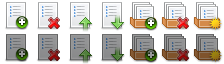
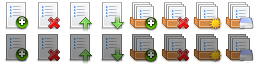
- managesieve: import/export
git-svn-id: https://svn.roundcube.net/trunk@3460 208e9e7b-5314-0410-a742-e7e81cd9613c

diff --git a/plugins/managesieve/managesieve.js b/plugins/managesieve/managesieve.js
@@ -23,6 +23,7 @@ if (window.rcmail) {
     rcmail.register_command('plugin.managesieve-setadd', function() { rcmail.managesieve_setadd() }, true);
     rcmail.register_command('plugin.managesieve-setdel', function() { rcmail.managesieve_setdel() }, true);
     rcmail.register_command('plugin.managesieve-setact', function() { rcmail.managesieve_setact() }, true);
+    rcmail.register_command('plugin.managesieve-setget', function() { rcmail.managesieve_setget() }, true);
 
     if (rcmail.env.action == 'plugin.managesieve')
       {
@@ -33,7 +34,8 @@ if (window.rcmail) {
 	  rcmail.enable_command('plugin.managesieve-del', 'plugin.managesieve-up',
 	    'plugin.managesieve-down', false);
           rcmail.enable_command('plugin.managesieve-add', 'plugin.managesieve-setadd', !rcmail.env.sieveconnerror);
-	  rcmail.enable_command('plugin.managesieve-set', rcmail.gui_objects.filtersetslist != null);
+	  rcmail.enable_command('plugin.managesieve-set', 'plugin.managesieve-setget',
+            rcmail.gui_objects.filtersetslist != null);
 	  rcmail.enable_command('plugin.managesieve-setact',
 	    (rcmail.gui_objects.filtersetslist && rcmail.gui_objects.filtersetslist.length > 1
 		&& rcmail.gui_objects.filtersetslist.value != rcmail.env.active_set));
@@ -410,7 +412,14 @@ if (window.rcmail) {
   rcube_webmail.prototype.managesieve_set = function()
     {
     var script = $(this.gui_objects.filtersetslist).val();
-    location.href = this.env.comm_path+'&_action=plugin.managesieve&_sid='+script;
+    location.href = this.env.comm_path+'&_action=plugin.managesieve&_set='+script;
+    };
+
+  // Script download
+  rcube_webmail.prototype.managesieve_setget = function()
+    {
+    var script = $(this.gui_objects.filtersetslist).val();
+    location.href = this.env.comm_path+'&_action=plugin.managesieve&_act=setget&_set='+script;
     };
 
   // Set activate
@@ -466,13 +475,12 @@ if (window.rcmail) {
         }
     };
 
-
   rcube_webmail.prototype.managesieve_reload = function(set)
     {
       this.env.reload_set = set;
       window.setTimeout(function() {
         location.href = rcmail.env.comm_path + '&_action=plugin.managesieve'
-	  + (rcmail.env.reload_set ? '&_sid=' + rcmail.env.reload_set : '')
+	  + (rcmail.env.reload_set ? '&_set=' + rcmail.env.reload_set : '')
 	}, 500);
     };
 

diff --git a/plugins/managesieve/skins/default/templates/managesieve.html b/plugins/managesieve/skins/default/templates/managesieve.html
@@ -32,6 +32,7 @@
 <roundcube:button command="plugin.managesieve-setadd" type="link" class="buttonPas setadd" classSel="button setaddsel" classAct="button setadd" title="managesieve.filtersetadd" content=" " />
 <roundcube:button command="plugin.managesieve-setdel" type="link" class="buttonPas setdel" classSel="button setdelsel" classAct="button setdel" title="managesieve.filtersetdel" content=" " />
 <roundcube:button command="plugin.managesieve-setact" type="link" class="buttonPas setset" classSel="button setsetsel" classAct="button setset" title="managesieve.filtersetact" content=" " />
+<roundcube:button command="plugin.managesieve-setget" type="link" class="buttonPas setget" classSel="button setgetsel" classAct="button setget" title="managesieve.filtersetget" content=" " />
 </div>
 <div id="filtersetselect">
 <roundcube:label name="managesieve.filterset" />:

diff --git a/plugins/managesieve/skins/default/managesieve.css b/plugins/managesieve/skins/default/managesieve.css
@@ -131,10 +131,18 @@
   background-position: -192px -32px;
 }
 
+#filtersetsbuttons a.setget {
+  background-position: -224px 0px;
+}
+
+#filtersetsbuttons a.setgetsel {
+  background-position: -224px -32px;
+}
+
 #filtersetselect
 {
   position: absolute;
-  left: 360px;
+  left: 375px;
   top: 90px;
 }
 
@@ -270,4 +278,14 @@ span.label
   white-space: nowrap;
   text-align: right;
   float: right;
+}
+
+div .itemlist
+{
+  line-height: 25px;
+}
+
+div .itemlist input
+{
+  vertical-align: middle;
 }

diff --git a/plugins/managesieve/managesieve.php b/plugins/managesieve/managesieve.php
@@ -7,7 +7,7 @@
  * It's clickable interface which operates on text scripts and communicates
  * with server using managesieve protocol. Adds Filters tab in Settings.
  *
- * @version 2.3
+ * @version 2.4
  * @author Aleksander 'A.L.E.C' Machniak <alec@alec.pl>
  *
  * Configuration (see config.inc.php.dist)
@@ -79,8 +79,8 @@ class managesieve extends rcube_plugin
       $active = $this->sieve->get_active();
       $_SESSION['managesieve_active'] = $active;
       
-      if (!empty($_GET['_sid'])) {
-        $script_name = get_input_value('_sid', RCUBE_INPUT_GET);
+      if (!empty($_GET['_set'])) {
+        $script_name = get_input_value('_set', RCUBE_INPUT_GET);
       } else if (!empty($_SESSION['managesieve_current'])) {
         $script_name = $_SESSION['managesieve_current'];
       } else {
@@ -224,6 +224,33 @@ class managesieve extends rcube_plugin
           $this->rc->output->show_message('managesieve.setdeleteerror', 'error');
 	}
       }
+      else if ($action=='setget')
+      {
+        $script_name = get_input_value('_set', RCUBE_INPUT_GPC);
+	$script = $this->sieve->get_script($script_name);
+
+        if (PEAR::isError($script))
+          exit;
+
+        $browser = new rcube_browser;
+        
+        // send download headers
+        header("Content-Type: application/octet-stream");
+        header("Content-Length: ".strlen($script));
+
+        if ($browser->ie)
+          header("Content-Type: application/force-download");
+        if ($browser->ie && $browser->ver < 7)
+          $filename = rawurlencode(abbreviate_string($script_name, 55));
+        else if ($browser->ie)
+          $filename = rawurlencode($script_name);
+        else
+          $filename = addcslashes($script_name, '\\"');
+        
+        header("Content-Disposition: attachment; filename=\"$filename.txt\"");
+        echo $script;
+        exit;                                                                                              
+      }
       elseif ($action=='ruleadd')
       {
         $rid = get_input_value('_rid', RCUBE_INPUT_GPC);
@@ -255,20 +282,47 @@ class managesieve extends rcube_plugin
     // filters set add action
     if (!empty($_POST['_newset']))
     {
-      $name = get_input_value('_name', RCUBE_INPUT_GPC);
-      $copy = get_input_value('_copy', RCUBE_INPUT_GPC);
+      $name = get_input_value('_name', RCUBE_INPUT_POST);
+      $copy = get_input_value('_copy', RCUBE_INPUT_POST);
+      $from = get_input_value('_from', RCUBE_INPUT_POST);
 
       if (!$name)
 	$error = 'managesieve.emptyname';
       else if (mb_strlen($name)>128)
 	$error = 'managesieve.nametoolong';
-      else if (!$this->sieve->copy($name, $copy))
+      else if ($from == 'file') {
+        // from file
+        if (is_uploaded_file($_FILES['_file']['tmp_name'])) {
+          $file = file_get_contents($_FILES['_file']['tmp_name']);
+          $file = preg_replace('/\r/', '', $file);
+          // for security don't save script directly
+          // check syntax before, like this...
+          $this->sieve->load_script($file);
+          if (!$this->sieve->save($name)) {
+            $error = 'managesieve.setcreateerror';  
+          }
+        }
+        else {  // upload failed
+          $err = $_FILES['_file']['error'];
+          $error = true;
+          if ($err == UPLOAD_ERR_INI_SIZE || $err == UPLOAD_ERR_FORM_SIZE) {
+            $msg = rcube_label(array('name' => 'filesizeerror', 'vars' => array('size' =>
+                show_bytes(parse_bytes(ini_get('upload_max_filesize'))))));
+          }
+          else {
+            $error = 'fileuploaderror';
+          }
+        }
+      }
+      else if (!$this->sieve->copy($name, $from == 'set' ? $copy : '')) {
 	$error = 'managesieve.setcreateerror';
-		
+      }
+
       if (!$error) {
 	$this->rc->output->show_message('managesieve.setcreated', 'confirmation');
 	$this->rc->output->command('parent.managesieve_reload', $name);
-//	$this->rc->session->remove('managesieve_current');
+      } else if ($msg) {
+        $this->rc->output->command('display_message', $msg, 'error');
       } else {
         $this->rc->output->show_message($error, 'error');
       }
@@ -596,7 +650,7 @@ class managesieve extends rcube_plugin
     if (!$attrib['id'])
       $attrib['id'] = 'rcmfiltersetform';
 
-    $out = '<form name="filtersetform" action="./" method="post">'."\n";
+    $out = '<form name="filtersetform" action="./" method="post" enctype="multipart/form-data">'."\n";
 
     $hiddenfields = new html_hiddenfield(array('name' => '_task', 'value' => $this->rc->task));
     $hiddenfields->add(array('name' => '_action', 'value' => 'plugin.managesieve-save'));
@@ -605,8 +659,9 @@ class managesieve extends rcube_plugin
 
     $out .= $hiddenfields->show();
 
-    $name = get_input_value('_name', RCUBE_INPUT_GPC);
-    $copy = get_input_value('_copy', RCUBE_INPUT_GPC);
+    $name = get_input_value('_name', RCUBE_INPUT_POST);
+    $copy = get_input_value('_copy', RCUBE_INPUT_POST);
+    $selected = get_input_value('_from', RCUBE_INPUT_POST);
 
     $table = new html_table(array('cols' => 2));
 
@@ -617,6 +672,11 @@ class managesieve extends rcube_plugin
     $table->add('title', sprintf('<label for="%s"><b>%s:</b></label>', '_name', Q($this->gettext('filtersetname'))));
     $table->add(null, $input_name->show($name));
 
+    $from ='<div class="itemlist">';
+    $from .= '<input type="radio" id="from_none" name="_from" value="none"'
+        .(!$selected || $selected=='none' ? ' checked="checked"' : '').'></input>';
+    $from .= sprintf('<label for="%s">%s</label> ', 'from_none', Q($this->gettext('none')));
+
     // filters set list
     $list = $this->sieve->get_scripts();
     $active = $this->sieve->get_active();
@@ -625,12 +685,26 @@ class managesieve extends rcube_plugin
 
     asort($list, SORT_LOCALE_STRING);
 
-    $select->add($this->gettext('none'), '');
     foreach($list as $set)
       $select->add($set . ($set == $active ? ' ('.$this->gettext('active').')' : ''), $set);
     
-    $table->add('title', '<label>'.$this->gettext('copyfromset').':</label>');
-    $table->add(null, $select->show($copy));
+    $from .= '<br /><input type="radio" id="from_set" name="_from" value="set"'
+        .($selected=='set' ? ' checked="checked"' : '').'></input>';
+    $from .= sprintf('<label for="%s">%s:</label> ', 'from_set', Q($this->gettext('fromset')));
+    $from .= $select->show($copy);
+
+    // script upload box
+    $upload = new html_inputfield(array('name' => '_file', 'id' => '_file', 'size' => 30,
+	'type' => 'file', 'class' => ($this->errors['name'] ? 'error' : '')));
+
+    $from .= '<br /><input type="radio" id="from_file" name="_from" value="file"'
+        .($selected=='file' ? ' checked="checked"' : '').'></input>';
+    $from .= sprintf('<label for="%s">%s:</label> ', 'from_file', Q($this->gettext('fromfile')));
+    $from .= $upload->show();
+    $from .= '</div>';
+
+    $table->add('title', '<label>'.$this->gettext('filters').':</label>');
+    $table->add(null, $from);
 
     $out .= $table->show();
     

diff --git a/plugins/managesieve/lib/rcube_sieve.php b/plugins/managesieve/lib/rcube_sieve.php
@@ -223,30 +223,69 @@ class rcube_sieve
     	    return $this->_set_error(SIEVE_ERROR_OTHER);
 
 	// try to parse from Roundcube format
-        $this->script = new rcube_sieve_script($script, $this->disabled);
+        $this->script = $this->_parse($script);
+
+    	$this->current = $name;
+
+    	return true;
+    }
+
+    /**
+    * Loads script from text content
+    */
+    public function load_script($script)
+    {
+        if (!$this->sieve)
+    	    return $this->_set_error(SIEVE_ERROR_INTERNAL);
+
+	// try to parse from Roundcube format
+        $this->script = $this->_parse($script);
+    }
+
+    /**
+    * Creates rcube_sieve_script object from text script
+    */
+    private function _parse($txt)
+    {
+	// try to parse from Roundcube format
+        $script = new rcube_sieve_script($txt, $this->disabled);
 
         // ... else try to import from different formats
-        if (empty($this->script->content)) {
-    	    $script = $this->_import_rules($script);
-    	    $this->script = new rcube_sieve_script($script, $this->disabled);
+        if (empty($script->content)) {
+    	    $script = $this->_import_rules($txt);
+    	    $script = new rcube_sieve_script($script, $this->disabled);
     	}
 
         // replace all elsif with if+stop, we support only ifs
-        foreach ($this->script->content as $idx => $rule) {
-            if (!isset($this->script->content[$idx+1])
-                || preg_match('/^else|elsif$/', $this->script->content[$idx+1]['type'])) {
+        foreach ($script->content as $idx => $rule) {
+            if (!isset($script->content[$idx+1])
+                || preg_match('/^else|elsif$/', $script->content[$idx+1]['type'])) {
                 // 'stop' not found?
                 if (!preg_match('/^(stop|vacation)$/', $rule['actions'][count($rule['actions'])-1]['type'])) {
-                    $this->script->content[$idx]['actions'][] = array(
+                    $script->content[$idx]['actions'][] = array(
                         'type' => 'stop'
                     );
                 }
             }
         }
 
-    	$this->current = $name;
+    	return $script;
+    }
 
-    	return true;
+    /**
+    * Gets specified script as text
+    */
+    public function get_script($name)
+    {
+        if (!$this->sieve)
+    	    return $this->_set_error(SIEVE_ERROR_INTERNAL);
+
+    	$content = $this->sieve->getScript($name);
+
+    	if (PEAR::isError($content))
+    	    return $this->_set_error(SIEVE_ERROR_OTHER);
+	
+        return $content;
     }
 
     /**
@@ -266,7 +305,6 @@ class rcube_sieve
 	
 	return $this->save_script($name, $content);
     }
-
 
     private function _import_rules($script)
     {
